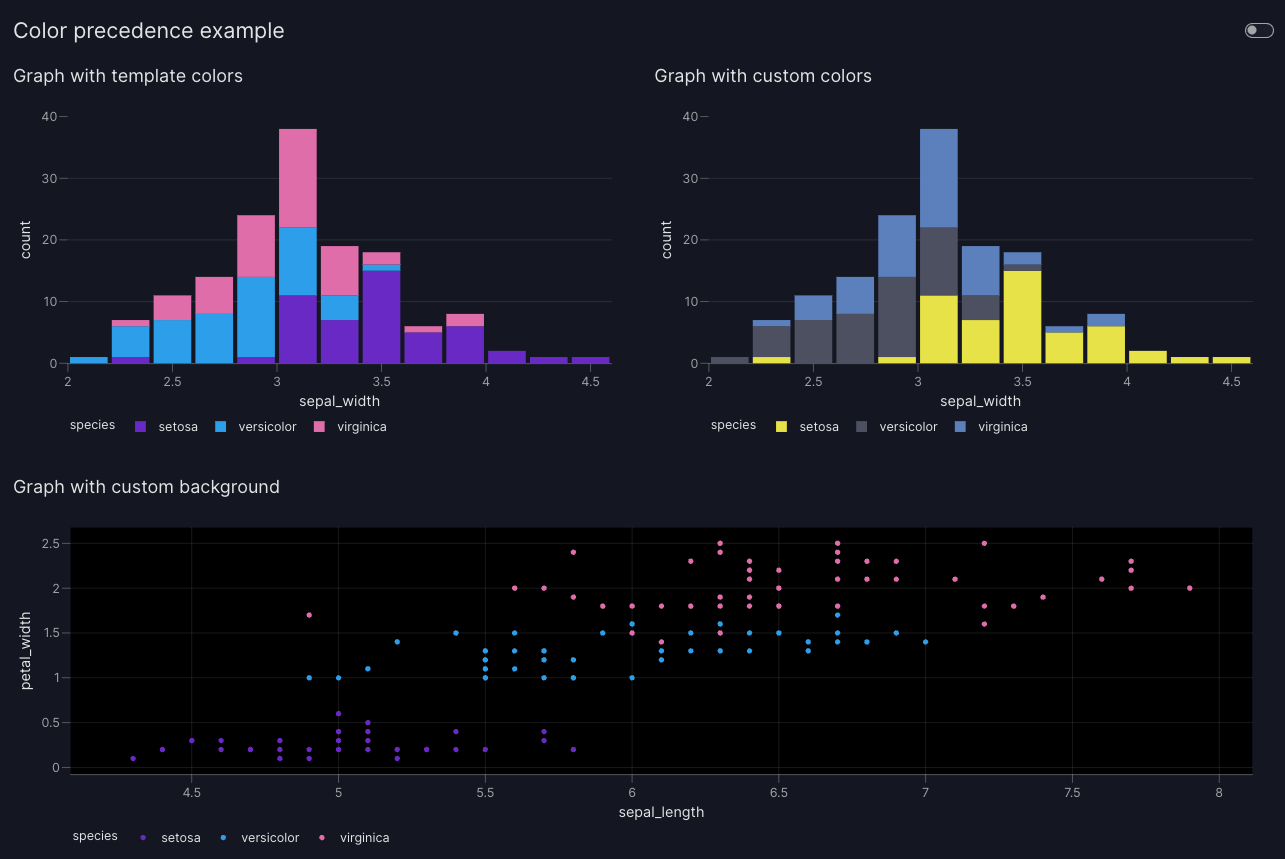
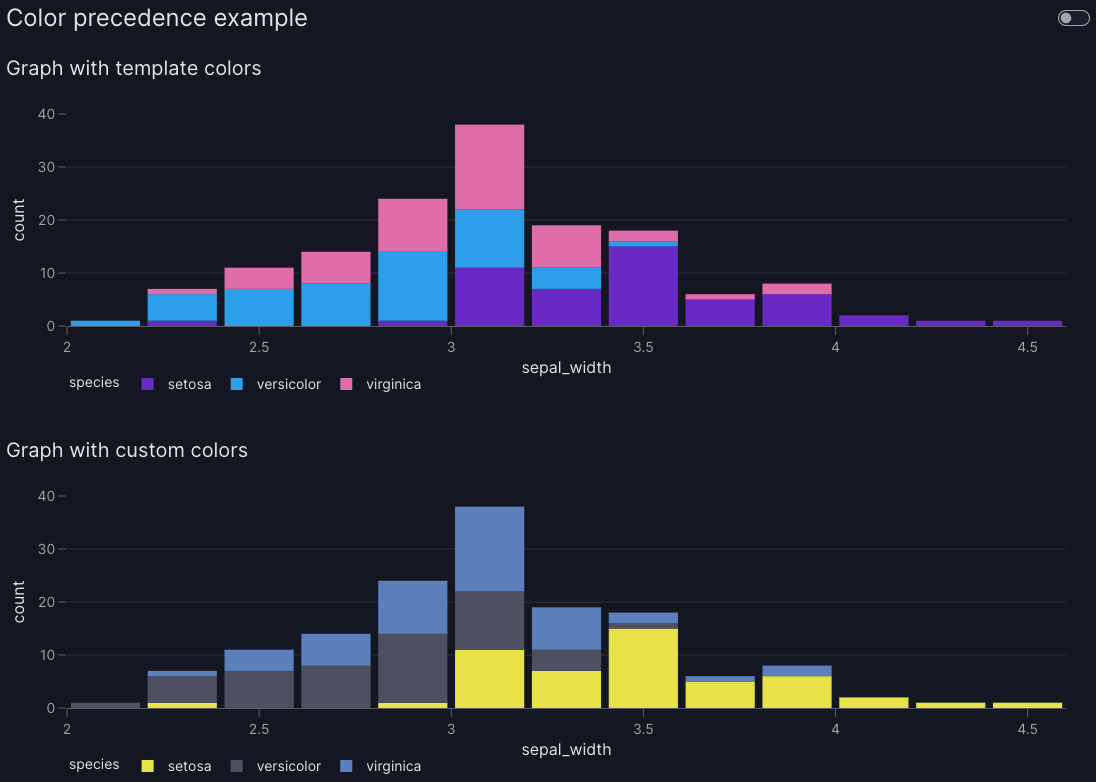
Streamline theme docs and update screenshot

diff --git a/vizro-core/docs/pages/user-guides/themes.md b/vizro-core/docs/pages/user-guides/themes.md
@@ -114,60 +114,13 @@ Vizro is primarily built out of [Dash Bootstrap components](https://www.dash-boo
 
         [![BootstrapDark]][bootstrapdark]
 
-## Vizro themes in plotly charts
+## Vizro themes for plotly charts
 
-You can also use our templates for plotly charts outside the dashboard. This is useful in a few contexts:
+Vizro registers two new [plotly themes](https://plotly.com/python/templates/), `vizro_dark` and `vizro_light`, that are used in a Vizro dashboard. You can [modify these themes](#modify-vizro-plotly-themes) globally or for indvidual charts. The themes can also be [used outside a Vizro dashboard](#charts-outside-a-dashboard) for standalone charts.
 
-- Creation of standalone charts to be used independently of a Vizro dashboard.
-- Rapid development of charts for eventual use in a Vizro dashboard, for example in a Jupyter Notebook.
+### Modify Vizro plotly themes
 
-!!! note
-
-    Using `import vizro.plotly.express as px` is equal to using `import plotly.express as px`, but with the added benefit of being able to integrate the resulting chart code into a Vizro dashboard. Vizro offers a minimal layer on top of Plotly's existing charting library, allowing you to seamlessly use all the existing charts and functionalities provided by plotly.express without any modifications.
-
-Our `vizro_dark` and `vizro_light` themes are automatically registered to `plotly.io.templates` when importing Vizro. Consult the plotly documentation for [more details on how templates work in plotly](https://plotly.com/python/templates/#theming-and-templates).
-
-By default, plots imported from `vizro.plotly.express` have the `vizro_dark` theme applied. This can be altered either globally or for individual plots.
-
-### Set themes for all charts
-
-To change the theme to `vizro_light` for all charts, run:
-
-```python
-import plotly.io as pio
-import vizro.plotly.express as px
-
-pio.templates.default = "vizro_light"
-
-df = px.data.iris()
-px.scatter_matrix(
-    df,
-    dimensions=["sepal_length", "sepal_width", "petal_length", "petal_width"],
-    color="species",
-)
-```
-
-### Set themes for selected charts
-
-To change the template for a selected chart only, use the `template` parameter and run:
-
-```python
-import vizro.plotly.express as px
-
-df = px.data.iris()
-px.scatter_matrix(
-    df,
-    dimensions=["sepal_length", "sepal_width", "petal_length", "petal_width"],
-    color="species",
-    template="vizro_light",
-)
-```
-
-### Modify Vizro themes
-
-You can customize the built-in `vizro_dark` and `vizro_light` themes by modifying their properties directly. This is useful when you want to keep most of the Vizro styling but adjust specific elements like colors, fonts, or other visual properties.
-
-Vizro templates are automatically registered to `plotly.io.templates` so you can access and modify them like any other Plotly template.
+You can customize the built-in `vizro_dark` and `vizro_light` themes by modifying their properties directly. This is useful when you want to keep most of the Vizro styling but adjust specific elements like colors, fonts, or other visual properties. Vizro templates are automatically registered to `plotly.io.templates` so you can [access and modify them like any other Plotly template](https://plotly.com/python/templates/).
 
 !!! example "Modify template color scheme"
 
@@ -192,11 +145,7 @@ Vizro templates are automatically registered to `plotly.io.templates` so you can
             title="Modified color scheme",
             components=[
                 vm.Graph(
-                    figure=px.histogram(
-                        df,
-                        x="sepal_width",
-                        color="species",
-                    ),
+                    figure=px.histogram(df, x="sepal_width", color="species"),
                 ),
             ],
         )
@@ -211,7 +160,7 @@ Vizro templates are automatically registered to `plotly.io.templates` so you can
 
 !!! note "Color scheme applies to both light and dark themes"
 
-    When you modify the `colorway` of a Plotly template, this color scheme applies to both light and dark theme in a Vizro dashboard, as only one `colorway` can be active at a time. When users toggle between themes, layout properties (backgrounds, fonts) update, but data colors remain the same.
+    When you modify the `colorway` of the `vizro_dark` template, the change applies to both light and dark theme in a Vizro dashboard. When users toggle between themes, layout properties (backgrounds, fonts) update, but data colors remain the same.
 
 For more comprehensive customizations, you can modify multiple template properties at once using dictionary updates.
 
@@ -255,25 +204,14 @@ For more comprehensive customizations, you can modify multiple template properti
     === "Result"
 
         [![ModifiedProperties]][modifiedproperties]
-
-!!! note "Some properties may not take effect"
-
-    When modifying template properties, you may notice that certain properties (like `paper_bgcolor` or `plot_bgcolor`) don't have a visible effect on charts inside a Vizro dashboard. This can occur due to:
-
-    - Plotly Express applying its own styling defaults
-    - Vizro dashboard-specific overwrites that ensure charts have a uniform appearance across the dashboard
-
-    Properties like `font`, `colorway`, and grid styling typically work well, while background colors and font-colors may be overridden. To customize these properties on individual charts, you can apply chart-specific styling as described in the next section [Style charts without changing the global template](#style-charts-without-changing-the-global-template).
-
-### Style charts without changing the global template
-
-You can apply a global template while still having fine-grained control over individual charts because arguments specified directly in chart functions (such as `color_discrete_map`, `color_discrete_sequence`, or `color_continuous_scale`) will always take precedence over template settings.
+        
+You can achieve fine-grained control over individual charts by using arguments specified directly in chart functions, such as `color_discrete_map`, `color_discrete_sequence`, or `color_continuous_scale`. These always take precedence over template settings.
 
 !!! example "Template colors vs chart-specific colors"
 
     === "app.py"
 
-        ```{.python pycafe-link hl_lines="7 13-22 46"}
+        ```{.python pycafe-link hl_lines="7 27"}
         import plotly.io as pio
         import vizro.models as vm
         import vizro.plotly.express as px
@@ -284,22 +222,8 @@ You can apply a global template while still having fine-grained control over ind
 
         df = px.data.iris()
 
-        # Custom chart with update_layout to modify properties that may not
-        # take effect through template modifications
-        @capture("graph")
-        def custom_background_chart(data_frame):
-            return px.scatter(
-                data_frame,
-                x="sepal_length",
-                y="petal_width",
-                color="species",
-            ).update_layout(
-                plot_bgcolor="black",
-            )
-
         page = vm.Page(
             title="Color precedence example",
-            layout=vm.Layout(grid=[[0, 1], [2, 2]]),
             components=[
                 vm.Graph(
                     figure=px.histogram(
@@ -318,10 +242,6 @@ You can apply a global template while still having fine-grained control over ind
                     ),
                     title="Graph with custom colors"
                 ),
-                vm.Graph(
-                    figure=custom_background_chart(data_frame=df),
-                    title="Graph with custom background"
-                ),
             ],
         )
 
@@ -333,13 +253,27 @@ You can apply a global template while still having fine-grained control over ind
 
         [![ColorPrecedence]][colorprecedence]
 
-In the example above, the first chart uses the colors defined in the modified template, the second chart uses the colors specified in `color_discrete_sequence` (ignoring the template's color scheme), and the third chart uses `.update_layout()` to customize the plot background color.
+### Charts outside a dashboard
 
-This principle applies to various styling arguments:
+You can also use our `vizro_dark` and `vizro_light` [templates for plotly charts](https://plotly.com/python/templates) outside the dashboard. This is useful in a few contexts:
 
-- `color_discrete_map` and `color_discrete_sequence` override template color schemes for discrete colors
-- `color_continuous_scale` overrides template color scales for continuous colors
-- Chart-specific layout properties (e.g., `.update_layout()` with `paper_bgcolor`, `plot_bgcolor`) override template layout settings
+- Creation of standalone charts to be used independently of a Vizro dashboard.
+- Rapid development of charts for eventual use in a Vizro dashboard, for example in a Jupyter Notebook.
+
+!!! note
+
+    Using `import vizro.plotly.express as px` is the same as using `import plotly.express as px`, but with the added benefit of being able to integrate the resulting chart code into a Vizro dashboard. Vizro offers a minimal layer on top of Plotly's existing charting library, allowing you to seamlessly use all the existing charts and functionalities provided by plotly.express without any modifications. Also, by default, plots imported from `vizro.plotly.express` have the `vizro_dark` theme applied.
+
+The `vizro_dark` and `vizro_light` themes are automatically registered to `plotly.io.templates` when importing Vizro. To change the theme to `vizro_light` for all charts, run:
+
+```python
+import plotly.io as pio
+import vizro.plotly.express as px
+
+pio.templates.default = "vizro_light"
+```
+
+To change the template for a single Plotly Express chart, use the argument `template="vizro_light"`.
 
 ## Vizro Bootstrap for pure Dash app
 
@@ -356,7 +290,7 @@ Vizro uses some extra CSS in addition to the Bootstrap stylesheet to style some 
 
 ??? note "Apply Vizro Bootstrap theme to charts and other components"
 
-    To apply the Vizro theme to plotly charts, refer to the above section [Vizro themes in plotly charts](#vizro-themes-in-plotly-charts). This is possible with or without Vizro Bootstrap.
+    You can [apply the Vizro theme to plotly charts](#charts-outside-a-dashboard) with or without Vizro Bootstrap.
 
     If you want to style your entire Dash app with Vizro Bootstrap and have your plotly figures automatically match then we recommend [`dash-bootstrap-templates`](https://github.com/AnnMarieW/dash-bootstrap-templates). You can find examples of how to do this in their [documentation on styling plotly figures with a Bootstrap theme](https://hellodash.pythonanywhere.com/adding-themes/figure-templates).
 
